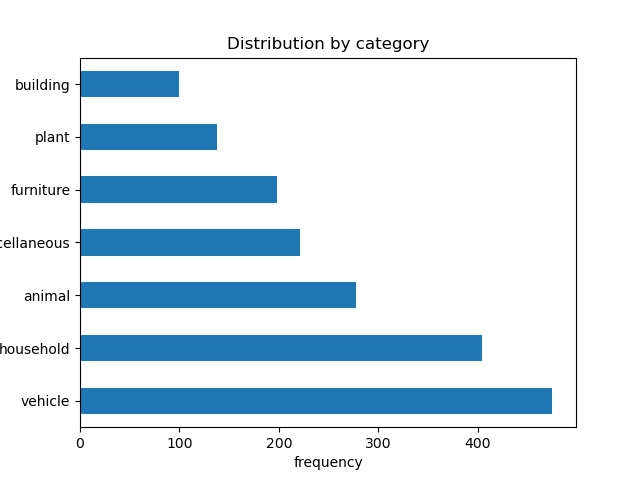
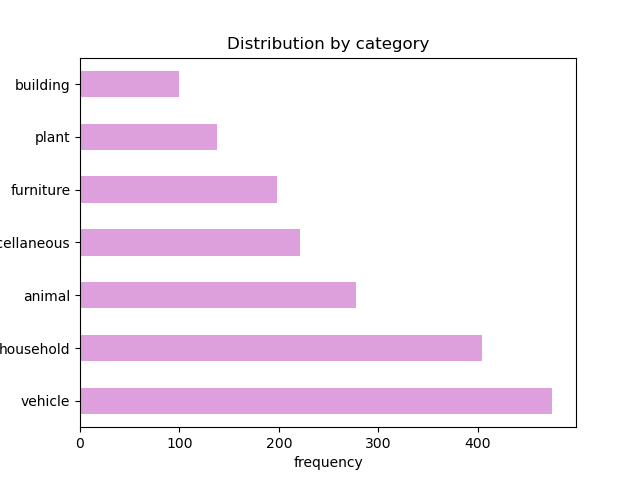
category coloradded

diff --git a/histograms.py b/histograms.py
@@ -21,7 +21,7 @@ fontsize =12
 
 #category histogram
 # df = pd.read_csv('csv/Princeton_basic_mesh_info.csv')
-# df2 = df['category'].value_counts().plot(kind ='barh')
+# df2 = df['category'].value_counts().plot(kind ='barh', color='plum')
 # plt.ylabel('category')
 # plt.xlabel('frequency')
 # plt.title("Distribution by category")
@@ -83,35 +83,37 @@ fontsize =12
 #plt.show()
 
 #scaling distribution before normalization
-csv_name ="./csv/Princeton_basic_mesh_info.csv"
-plt_name = "scale before normalization"
-df = pd.read_csv(csv_name)
-df.hist(column=["scale"], color='plum')
-plt.suptitle(plt_name, fontsize=fontsize)
-#plt.xlim([1, 2])
-#plt.axis([xmin, xmax, ymin, ymax])
-plt.ylabel("frequency")
-plt.xlabel("length of diagonal box of the axis aligned bounding box")
-plt.savefig("resample_plots/scaling_before")
-plt.show()
+# csv_name ="./csv/Princeton_basic_mesh_info.csv"
+# plt_name = "scale before normalization"
+# df = pd.read_csv(csv_name)
+# df.hist(column=["scale"], color='plum')
+# plt.suptitle(plt_name, fontsize=fontsize)
+# #plt.xlim([1, 2])
+# #plt.axis([xmin, xmax, ymin, ymax])
+# plt.ylabel("frequency")
+# plt.xlabel("length of diagonal box of the axis aligned bounding box")
+# plt.savefig("resample_plots/scaling_before")
+# plt.show()
 
 
 
-#flipping
-csv_name ="./csv/Princeton_flipping.csv"
-plt_name = "Flipping distribution before normalization"
-df = pd.read_csv(csv_name)
-cx = df['flip_x'].value_counts()[1]
-cy = df['flip_y'].value_counts()[1]
-cz = df['flip_z'].value_counts()[1]
-print(cx,cy,cz)
-data = {'flip_x': cx, 'flip_y': cy, 'flip_z': cz}
-df = pd.Series(data)
-plt.bar(range(len(df)), df.values, align='center', color='plum')
-plt.xticks(range(len(df)), df.index.values, size='small')
-plt.suptitle(plt_name, fontsize=fontsize)
-plt.ylabel("frequency")
-plt.xlabel("number of correct flips in each dimension")
-plt.savefig("resample_plots/flipping_before")
-plt.show()
+# #flipping
+# csv_name ="./csv/Princeton_flipping.csv"
+# plt_name = "Flipping distribution before normalization"
+# df = pd.read_csv(csv_name)
+# cx = df['flip_x'].value_counts()[1]
+# cy = df['flip_y'].value_counts()[1]
+# cz = df['flip_z'].value_counts()[1]
+# print(cx,cy,cz)
+# data = {'flip_x': cx, 'flip_y': cy, 'flip_z': cz}
+# df = pd.Series(data)
+# plt.bar(range(len(df)), df.values, align='center', color='plum')
+# plt.xticks(range(len(df)), df.index.values, size='small')
+# plt.suptitle(plt_name, fontsize=fontsize)
+# plt.ylabel("frequency")
+# plt.xlabel("number of correct flips in each dimension")
+# plt.savefig("resample_plots/flipping_before")
+# plt.show()
+
+
 
